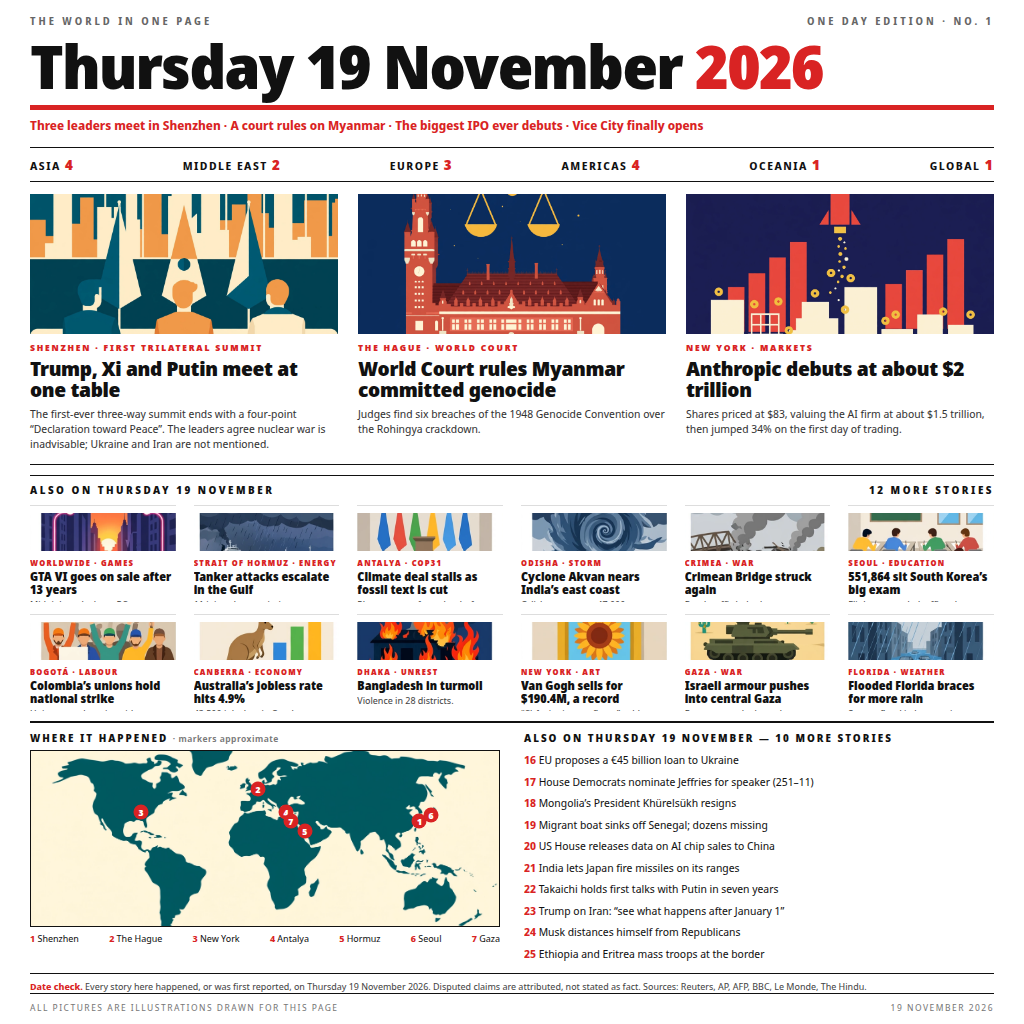
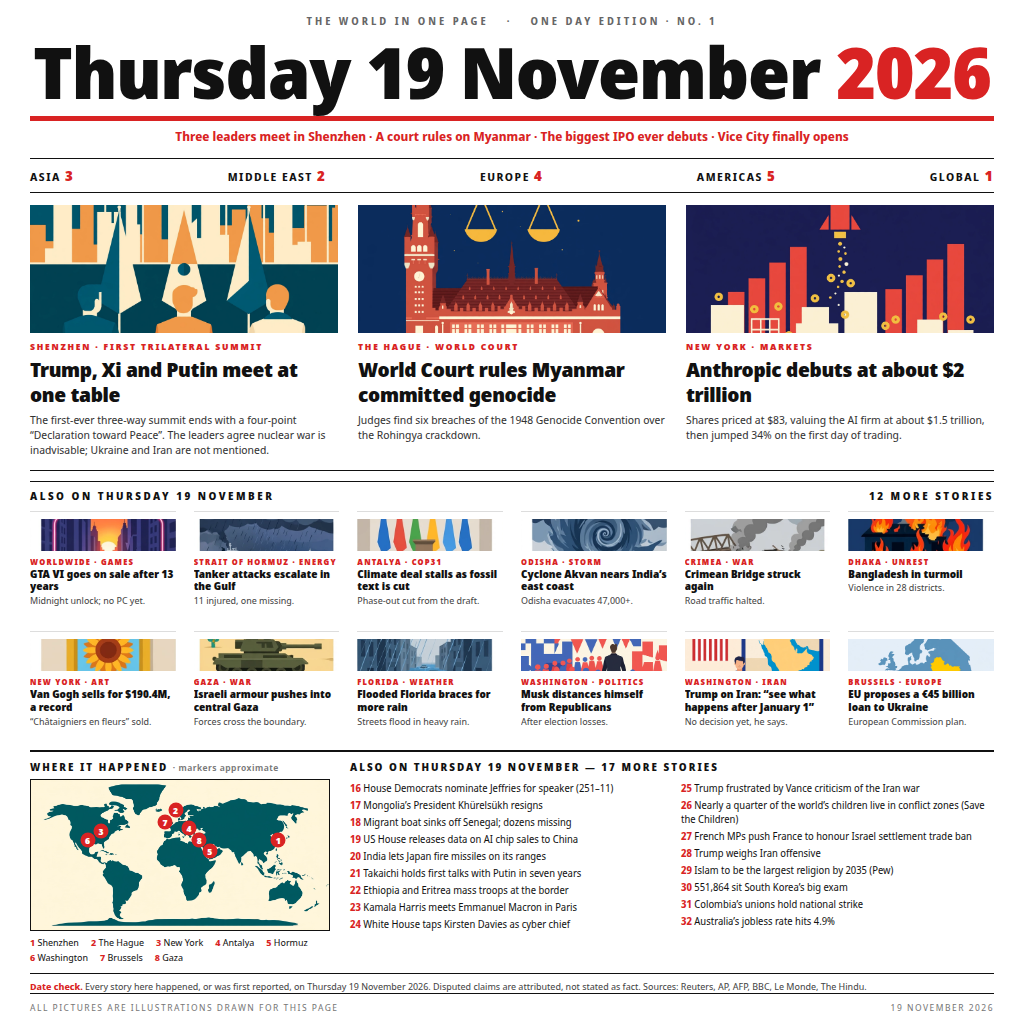
news-image-20261119: de-duplicate footer — 17 more stories, 32 total, no repeats

Changed region(s): [[0.0312, 0.0, 0.9688, 0.9375], [0.2812, 0.3125, 0.3125, 0.3438]]

diff --git a/README.md b/README.md
@@ -6,7 +6,7 @@
 
 A newspaper front page that sums up Thursday 19 November 2026 in one image, built for make.fun's ["Sum up 19 November's world news in one image"](https://make.fun/bounty/news-image-20261119) bounty.
 
-The page — headed by the date itself, **Thursday 19 November 2026**, in giant type — leads with three highlights in one row: the first-ever Trump–Xi–Putin trilateral summit in Shenzhen, the World Court ruling that Myanmar committed genocide against the Rohingya, and Anthropic's debut at about $2 trillion. Below are twelve more stories in two rows, and a footer with ten further stories, a world map of where it happened, and a date check. All pictures are flat-design illustrations drawn for this page; all headlines and decks are set in crisp vector type.
+The page — headed by the date itself, **Thursday 19 November 2026**, in giant centred type across the full width — leads with three highlights in one row: the first-ever Trump–Xi–Putin trilateral summit in Shenzhen, the World Court ruling that Myanmar committed genocide against the Rohingya, and Anthropic's debut at about $2 trillion. Below are twelve more stories in two rows — the day's most talked-about stories, from GTA VI and the Hormuz tanker attacks to Musk, Trump on Iran, and the EU's €45 billion Ukraine loan — and a footer with seventeen further stories in two columns beside a narrower world map of where it happened, plus a date check. Thirty-two stories in all. All pictures are flat-design illustrations drawn for this page; all headlines and decks are set in crisp vector type.
 
 ## Run
 
